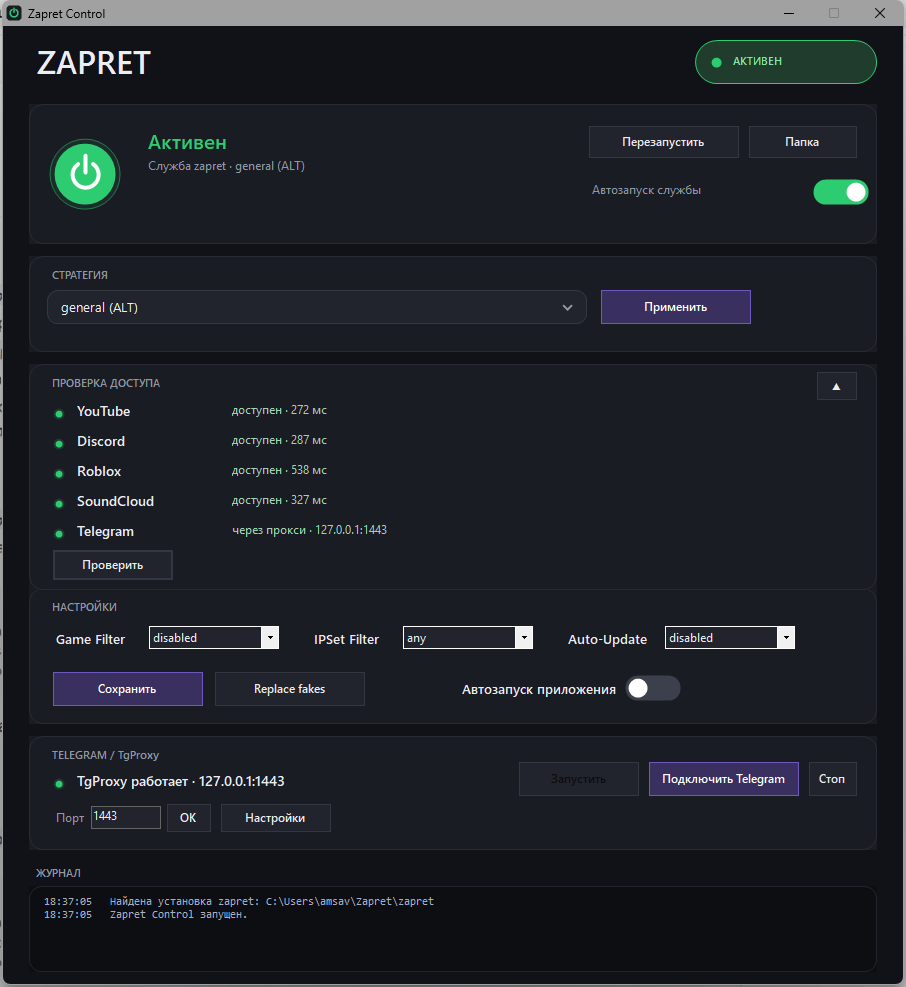
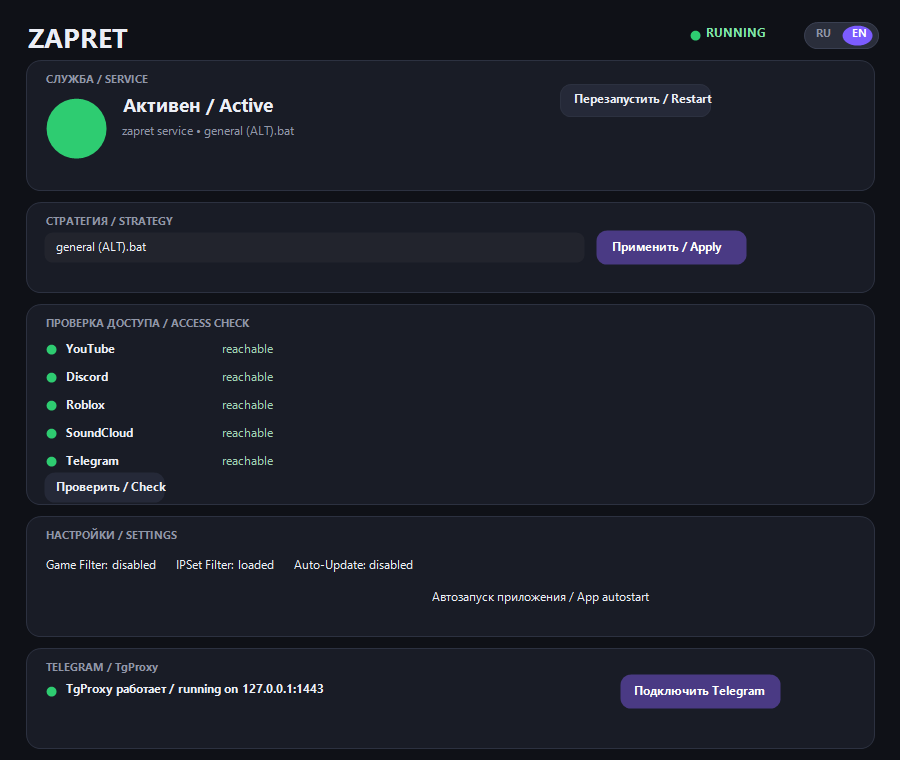
Update screenshot and bump version to 1.2.0

diff --git a/src/AssemblyInfo.cs b/src/AssemblyInfo.cs
@@ -1,11 +1,12 @@
-using System.Reflection;
+using System.Reflection;
 using System.Runtime.InteropServices;
 [assembly: AssemblyTitle("Zapret Control")]
-[assembly: AssemblyDescription("Графическая панель для zapret-discord-youtube")]
+[assembly: AssemblyDescription("Р“СЂР°С„РёС‡РµСЃРєР°СЏ РїР°РЅРµР»СЊ РґР»СЏ zapret-discord-youtube")]
 [assembly: AssemblyProduct("Zapret Control")]
 [assembly: AssemblyCompany("Zapret Control contributors")]
-[assembly: AssemblyCopyright("Copyright © 2026 Zapret Control contributors")]
+[assembly: AssemblyCopyright("Copyright В© 2026 Zapret Control contributors")]
 [assembly: ComVisible(false)]
-[assembly: AssemblyVersion("1.0.0.0")]
-[assembly: AssemblyFileVersion("1.0.0.0")]
-[assembly: AssemblyInformationalVersion("1.0.0")]
+[assembly: AssemblyVersion("1.2.0.0")]
+[assembly: AssemblyFileVersion("1.2.0.0")]
+[assembly: AssemblyInformationalVersion("1.2.0")]
+
